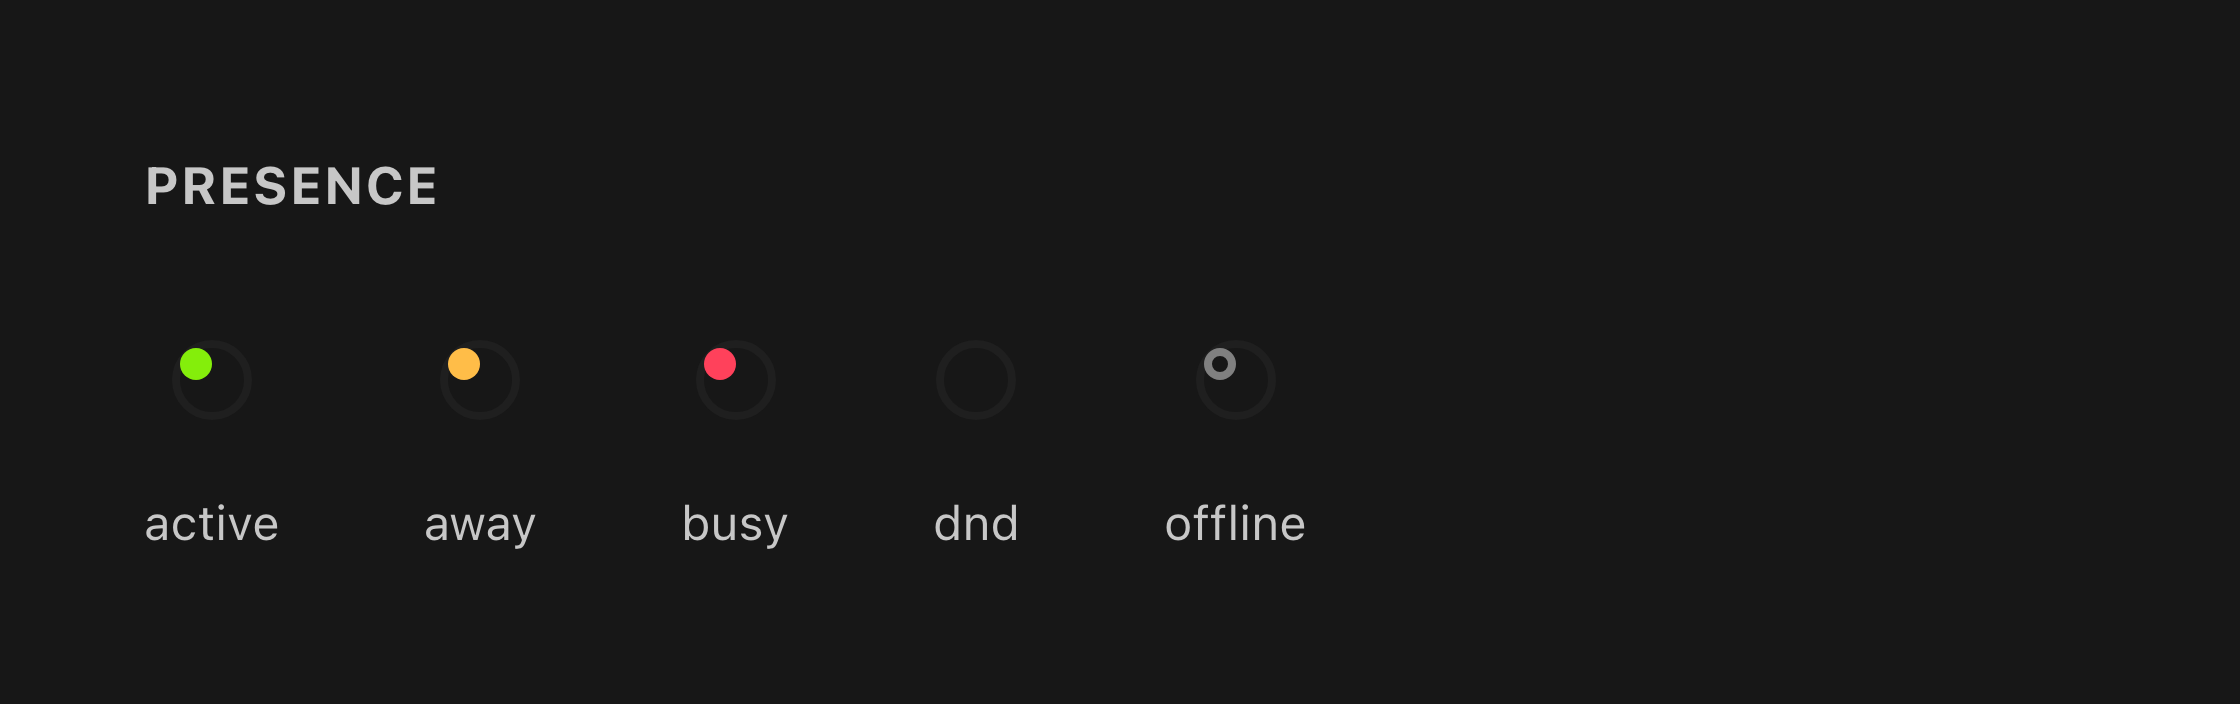
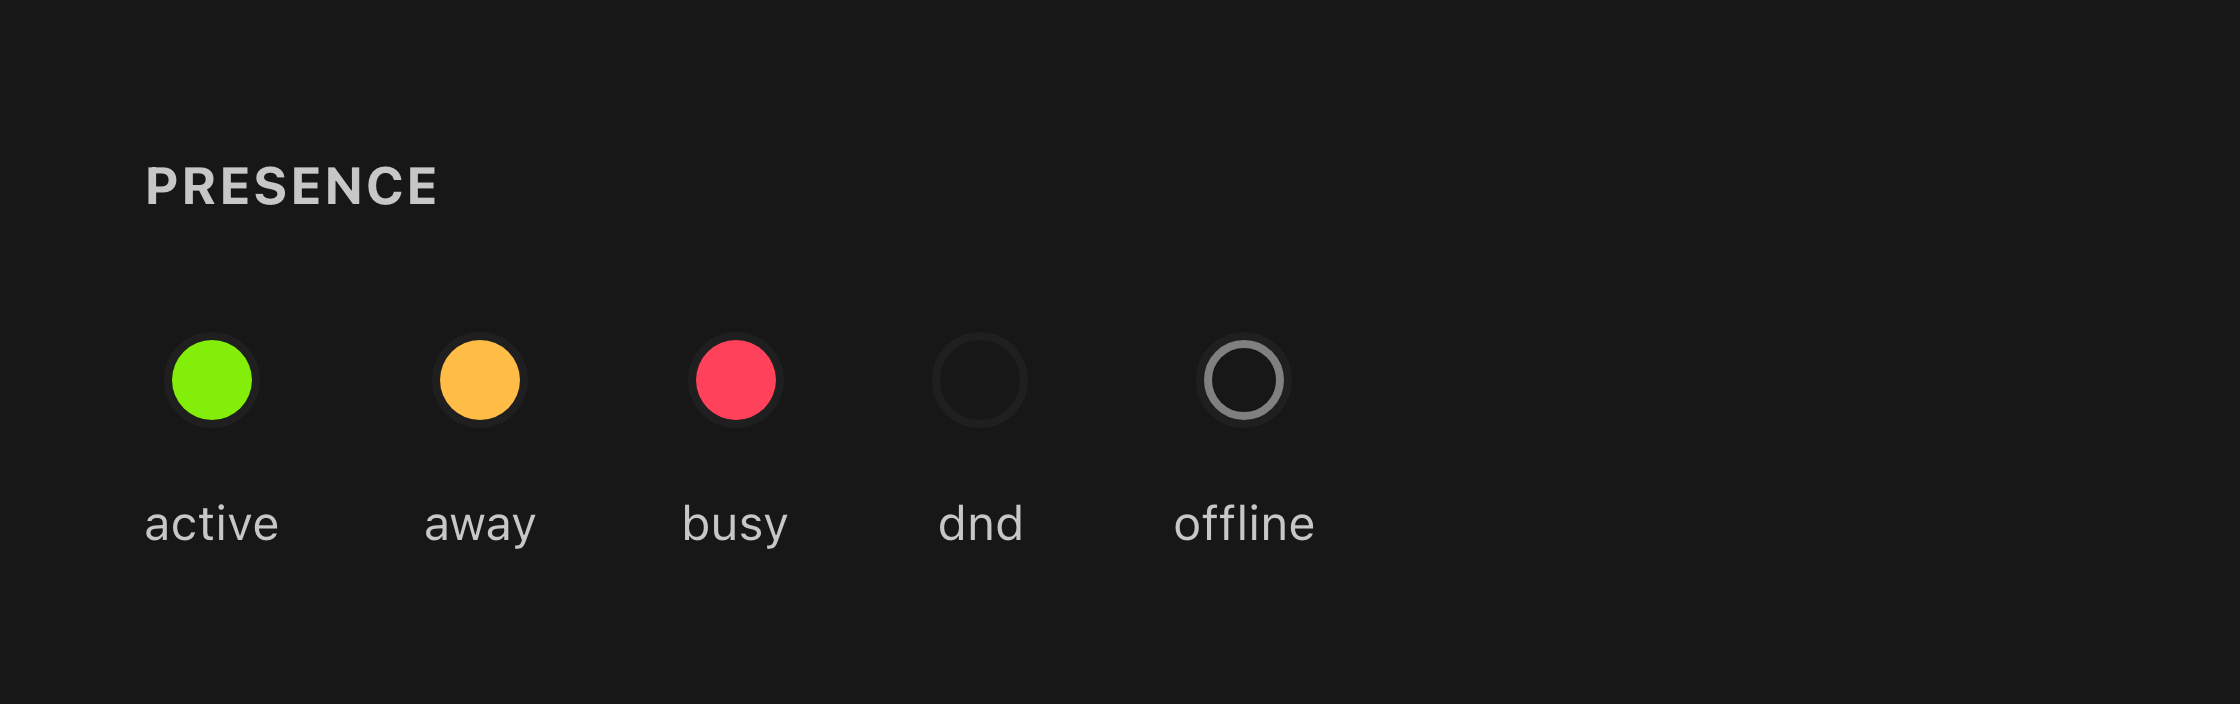
fix(documentation): DLT-3469 remove the ghost circle from the before-side presence render
Review feedback on #1358: forcing width/height on the DtPresence
wrapper stretched staging's wrapper ring to 20px around a native-size
inner dot, leaving an offset pale circle behind each indicator. Sizing
through the component's own --presence-size variable scales the inner
dot (and next's radius/borders/icon) instead, so the ring hugs the dot
on staging and the next squircles are unchanged.

diff --git a/apps/dialtone-documentation/scripts/visual-guide/scenes/component-presence.vue b/apps/dialtone-documentation/scripts/visual-guide/scenes/component-presence.vue
@@ -30,9 +30,12 @@
 </template>
 
 <style scoped>
-/* Render presence dots large enough to see the new internal shapes. */
+/* Render presence dots large enough to see the new internal shapes.
+   Size via the component's own --presence-size variable: both branches
+   size the inner dot (and, on next, radius/borders/icon) from it. Forcing
+   width/height on the wrapper instead left staging's wrapper ring at 20px
+   around a native-size dot — the "ghost circle" review finding. */
 .vg-presence-size {
-  inline-size: 20px;
-  block-size: 20px;
+  --presence-size: 20px;
 }
 </style>
